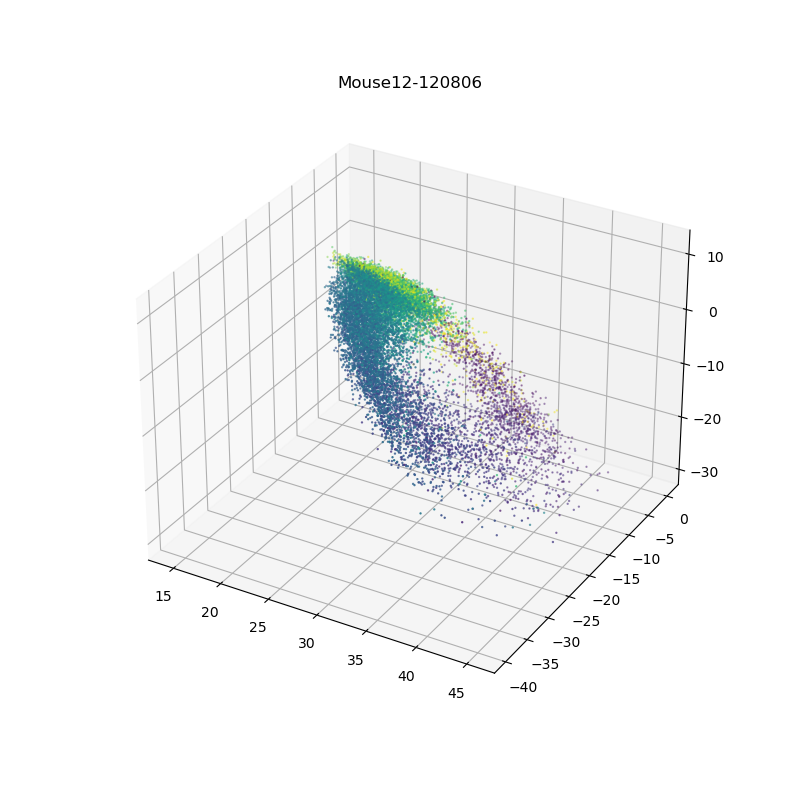
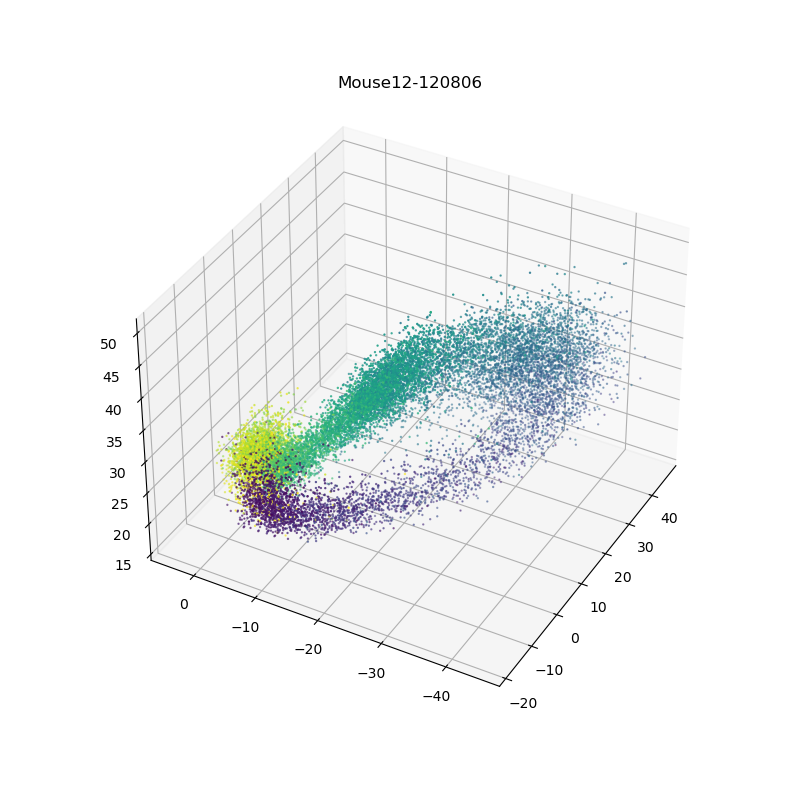
pause

Changed region(s): [[0.125, 0.1875, 0.9062, 0.875]]

diff --git a/manifold_and_decoding/run_dimensionality_reduction.py b/manifold_and_decoding/run_dimensionality_reduction.py
@@ -39,7 +39,12 @@ if command_line:
     target_dim = int(sys.argv[4])
     desired_nSamples = int(sys.argv[5])
 else:
-    session = 'Mouse25-140131'
+    sessions = ["Mouse12-120806", "Mouse12-120807", "Mouse12-120809", "Mouse12-120810", "Mouse17-130125",
+                "Mouse17-130128", "Mouse17-130129", "Mouse17-130130", "Mouse17-130131", "Mouse17-130201",
+                "Mouse17-130202", "Mouse17-130203", "Mouse17-130204", "Mouse20-130514", "Mouse20-130515",
+                "Mouse20-130516", "Mouse20-130517", "Mouse24-131216", "Mouse24-131217", "Mouse24-131218",
+                "Mouse25-140130", "Mouse25-140131", "Mouse25-140204", "Mouse28-140311", "Mouse28-140313",
+                "Mouse28-140317", "Mouse28-140318"]
     state = 'Wake'
     # state2 = 'REM'  # state2 is needed when the condition is 'joint'
     condition = 'solo'  # 'solo' or 'joint'
@@ -47,72 +52,74 @@ else:
 # target dimension 은 3 또는 2
     desired_nSamples = 15000
 
-print('Session %s, condition %s, target_dim %d, desired_nSamples %d' % (session, condition,
-                                                                        target_dim, desired_nSamples))
-area = 'ADn'  # Antero dorsal Nuclei
-dt_kernel = 0.1  # 이 값에 따라서 sample을 많이 추출할 수 있고, 적게 추출할 수 있다.(sub_sampling parameter)
-sigma = 0.1  # Kernel width => 100ms
-rate_params = {'dt': dt_kernel, 'sigma': sigma}
-method = 'iso'  # algorithm methods (available: iso, lle, tsne)
-n_neighbors = 5  # 이웃 노드의 개수
-dim_red_params = {'n_neighbors': n_neighbors, 'target_dim': target_dim}
-to_plot = True
+for session in sessions:
 
-session_rates = spike_counts(session, rate_params, count_type='rate',
-                             anat_region='ADn')
+    print('Session %s, condition %s, target_dim %d, desired_nSamples %d' % (session, condition,
+                                                                            target_dim, desired_nSamples))
+    area = 'ADn'  # Antero dorsal Nuclei
+    dt_kernel = 0.1  # 이 값에 따라서 sample을 많이 추출할 수 있고, 적게 추출할 수 있다.(sub_sampling parameter)
+    sigma = 0.1  # Kernel width => 100ms
+    rate_params = {'dt': dt_kernel, 'sigma': sigma}
+    method = 'iso'  # algorithm methods (available: iso, lle, tsne)
+    n_neighbors = 5  # 이웃 노드의 개수
+    dim_red_params = {'n_neighbors': n_neighbors, 'target_dim': target_dim}
+    to_plot = True
 
-t0 = time.time()
-if condition == 'solo':
-    counts, tmp_angles = session_rates.get_spike_matrix(state)  # count 변수 중 desired_nSample 만큼 slice하여 Manifold Learning 수행함.
-    sel_counts = counts[:desired_nSamples]
-    # 위의 과정은 dt_kernel을 통해 subsampling을 하고 num of desired samples만큼 subsampling을 하는 과정이다.
-    # _______________________________________________for checking target variable for manifold learning
-    proj = run_dim_red(sel_counts, params=dim_red_params, inp_dim=sel_counts.shape[1], method=method)
-    to_save = {'seed': sd, state: proj,
-               'meas_angles': tmp_angles[:desired_nSamples]}
-    fname = '%s_%s_kern_%dms_sigma_%dms_binsep_%s_embed_%s_%ddims_%dneighbors_%d.p' % (
-        session, area, sigma * 1000, dt_kernel *
-            1000, state, method, target_dim, n_neighbors,
-        sd)
-elif condition == 'joint':
-    counts1, _ = session_rates.get_spike_matrix(state)
-    counts2, _ = session_rates.get_spike_matrix(state2)
-    print('Counts for each ', len(counts1), len(counts2))
-    nSamples = min(len(counts1), len(counts2), desired_nSamples)
-    print('nSamples = ', nSamples)
-    sel1 = counts1[:nSamples]
-    sel2 = counts2[:nSamples]
-    concat_counts = np.concatenate((sel1, sel2), 0)
-    proj = run_dim_red(concat_counts, params=dim_red_params, method=method)
-    to_save = {'seed': sd, state: proj[:nSamples].copy(),
-               state2: proj[nSamples:].copy()}
-    fname = '%s_%s_kern_%dms_sigma_%dms_binsep_%s_%s_embed_%s_%ddims_%dneighbors_%d.p' % (
-        session, area, sigma * 1000, dt_kernel *
-            1000, state, state2, method, target_dim,
-        n_neighbors, sd)
-gff.save_pickle_file(to_save, dir_to_save + fname)
-print('Time ', time.time() - t0)
+    session_rates = spike_counts(session, rate_params, count_type='rate',
+                                 anat_region='ADn')
 
-if to_plot:
-    fig = plt.figure(figsize=(8, 8))
-    if target_dim == 2:
-        ax = fig.add_subplot(111)
-        ax.scatter(to_save[state][:, 0], to_save[state][:, 1], s=10, alpha=0.4,
-                   color=cols[state])
-        if condition == 'joint':
-            ax.scatter(to_save[state2][:, 0], to_save[state2][:, 1], s=10, alpha=0.4,
-                       color=cols[state2])
-    if target_dim == 3:
-        ax = fig.add_subplot(111, projection='3d')
-        ax.scatter(to_save[state][:, 0], to_save[state][:, 1], to_save[state][:, 2],
-                   s=5, alpha=0.4, edgecolor='face', c=cols[state])
-        if condition == 'joint':
-            ax.scatter(to_save[state2][:, 0], to_save[state2][:, 1], to_save[state2][:, 2],
-                       s=5, alpha=0.4, edgecolor='face', c=cols[state2])
-    ax.set_title('Session %s' % session)
+    t0 = time.time()
     if condition == 'solo':
-        plt.savefig(gen_params['figures_dir']+'%s_%s_%s.png' % (session, state, method))
+        counts, tmp_angles = session_rates.get_spike_matrix(state)  # count 변수 중 desired_nSample 만큼 slice하여 Manifold Learning 수행함.
+        sel_counts = counts[:desired_nSamples]
+        tmp_angles = tmp_angles[:desired_nSamples]
+        # 위의 과정은 dt_kernel을 통해 subsampling을 하고 num of desired samples만큼 subsampling을 하는 과정이다.
+        # _______________________________________________for checking target variable for manifold learning
+        proj = run_dim_red(sel_counts, params=dim_red_params, inp_dim=sel_counts.shape[1], method=method)
+        to_save = {'seed': sd, state: proj,
+                   'meas_angles': tmp_angles[:desired_nSamples]}
+        fname = '%s_%s_kern_%dms_sigma_%dms_binsep_%s_embed_%s_%ddims_%dneighbors_%d.p' % (
+            session, area, sigma * 1000, dt_kernel *
+                1000, state, method, target_dim, n_neighbors,
+            sd)
     elif condition == 'joint':
-        plt.savefig(gen_params['figures_dir']+'%s_%s,%s_%s.png' % (session, state, state2, method))
-    plt.show()
+        counts1, _ = session_rates.get_spike_matrix(state)
+        counts2, _ = session_rates.get_spike_matrix(state2)
+        print('Counts for each ', len(counts1), len(counts2))
+        nSamples = min(len(counts1), len(counts2), desired_nSamples)
+        print('nSamples = ', nSamples)
+        sel1 = counts1[:nSamples]
+        sel2 = counts2[:nSamples]
+        concat_counts = np.concatenate((sel1, sel2), 0)
+        proj = run_dim_red(concat_counts, params=dim_red_params, method=method)
+        to_save = {'seed': sd, state: proj[:nSamples].copy(),
+                   state2: proj[nSamples:].copy()}
+        fname = '%s_%s_kern_%dms_sigma_%dms_binsep_%s_%s_embed_%s_%ddims_%dneighbors_%d.p' % (
+            session, area, sigma * 1000, dt_kernel *
+                1000, state, state2, method, target_dim,
+            n_neighbors, sd)
+    gff.save_pickle_file(to_save, dir_to_save + fname)
+    print('Time ', time.time() - t0)
+
+    if to_plot:
+        fig = plt.figure(figsize=(8, 8))
+        if target_dim == 2:
+            ax = fig.add_subplot(111)
+            ax.scatter(to_save[state][:, 0], to_save[state][:, 1], s=10, alpha=0.4,
+                       color=cols[state])
+            if condition == 'joint':
+                ax.scatter(to_save[state2][:, 0], to_save[state2][:, 1], s=10, alpha=0.4,
+                           color=cols[state2])
+        if target_dim == 3:
+            ax = fig.add_subplot(111, projection='3d')
+            ax.scatter(to_save[state][:, 0], to_save[state][:, 1], to_save[state][:, 2],
+                       s=5, alpha=0.4, edgecolor='face', c=tmp_angles)
+            if condition == 'joint':
+                ax.scatter(to_save[state2][:, 0], to_save[state2][:, 1], to_save[state2][:, 2],
+                           s=5, alpha=0.4, edgecolor='face', c=cols[state2])
+        ax.set_title('Session %s' % session)
+        if condition == 'solo':
+            plt.savefig(gen_params['figures_dir']+'%s_%s_%s.png' % (session, state, method))
+        elif condition == 'joint':
+            plt.savefig(gen_params['figures_dir']+'%s_%s,%s_%s.png' % (session, state, state2, method))
 

diff --git a/experiments/run.py b/experiments/run.py
@@ -1,13 +1,12 @@
 import argparse
 from experiments.experiment import Experiment
 
-sessions = ["Mouse12-120806"]
-    # , "Mouse12-120807", "Mouse12-120809", "Mouse12-120810", "Mouse17-130125",
-    #         "Mouse17-130128", "Mouse17-130129", "Mouse17-130130", "Mouse17-130131", "Mouse17-130201",
-    #         "Mouse17-130202", "Mouse17-130203", "Mouse17-130204", "Mouse20-130514", "Mouse20-130515",
-    #         "Mouse20-130516", "Mouse20-130517", "Mouse24-131216", "Mouse24-131217", "Mouse24-131218",
-    #         "Mouse25-140130", "Mouse25-140131", "Mouse25-140204", "Mouse28-140311", "Mouse28-140313",
-    #         "Mouse28-140317", "Mouse28-140318"]
+sessions = ["Mouse12-120809", "Mouse12-120810", "Mouse17-130125",
+            "Mouse17-130128", "Mouse17-130129", "Mouse17-130130", "Mouse17-130131", "Mouse17-130201",
+            "Mouse17-130202", "Mouse17-130203", "Mouse17-130204", "Mouse20-130514", "Mouse20-130515",
+            "Mouse20-130516", "Mouse20-130517", "Mouse24-131216", "Mouse24-131217", "Mouse24-131218",
+            "Mouse25-140130", "Mouse25-140131", "Mouse25-140204", "Mouse28-140311", "Mouse28-140313",
+            "Mouse28-140317", "Mouse28-140318"]
 
 for session in sessions:
     parser = argparse.ArgumentParser()
@@ -21,12 +20,12 @@ for session in sessions:
     parser.add_argument("--enc_layers", nargs="+", type=int, help="encoder layers", default="100")
     parser.add_argument("--dec_layers", nargs="+", type=int, help="decoder layers", default="100")
     parser.add_argument("--model", default="RVAE", help="RVAE | VAE")
-    parser.add_argument("--batch_size", default=16, type=int, help="batch size")
+    parser.add_argument("--batch_size", default=32, type=int, help="batch size")
     parser.add_argument("--warmup_learning_rate", default=1e-5, type=float, help="p_mu learning rate")
     parser.add_argument("--sigma_learning_rate", default=1e-5, type=float, help="p_sigma learning rate")
     parser.add_argument("--mu_epochs", default=40, type=int, help="number of training epochs (decoder mu)")
     parser.add_argument("--sigma_epochs", default=40, type=int, help="number of training epochs (decoder sigma)")
-    parser.add_argument("--device", default="cuda:3", type=str, help="cuda | cpu")
+    parser.add_argument("--device", default="cuda:2", type=str, help="cuda | cpu")
     parser.add_argument("--seed", default=None, help="random seed")
     parser.add_argument("--log_invl", default=100, type=int,
                         help="the interval in which training stats will be reported")
@@ -39,7 +38,7 @@ for session in sessions:
     parser.add_argument("--num_components", default=128, type=int, help="number of components for the prior")
     parser.add_argument("--ckpt_path", default=None, type=str)
     parser.add_argument("--session", default=session, type=str, help="experimental session id")
-    # parser.add_argument("--ckpt_path", default="../saved_models/RVAE/spike_epoch40_"+session+"_sub.ckpt", type=str)
+    # parser.add_argument("--ckpt_path", default="../saved_models/RVAE/spike_epoch40_batch_16"+session+"_sub.ckpt", type=str)
     # parser.add_argument("--ckpt_path", default="../saved_models/VAE/spike_K1epoch40_"+session+".ckpt", type=str)
     args = parser.parse_args()
 
@@ -51,5 +50,3 @@ for session in sessions:
     else:
         experiment.eval(args.ckpt_path)
         experiment.visualize(args.ckpt_path, args.res_dir, 3)
-
-    break

diff --git a/experiments/experiment.py b/experiments/experiment.py
@@ -108,7 +108,8 @@ class Experiment:
                 print("\tEpoch: {} (sigma optimization), negative ELBO: {:.3f}".format(epoch, loss))
 
             savepath = os.path.join(self.rvae_save_dir,
-                                    self.dataset+"_epoch"+str(epoch)+"_"+self.session+"_sub"+".ckpt")
+                                    self.dataset+"_epoch"+str(epoch)+"_"+"batch_"
+                                    +str(self.batch_size)+self.session+".ckpt")
             save_model(self.model, sigma_optimizer, epoch, loss, savepath)
 
         # ================= VAE =================
@@ -196,7 +197,10 @@ class Experiment:
 
         if isinstance(self.model, RVAE):
             plot_latent_space(self.model, pretrained_path, self.in_dim,
-                              target_dim, self.train_loader, save_dir, self.device, self.session)
+                              target_dim, self.train_loader, save_dir, self.device, self.session,
+                              batch_size=self.batch_size, epoch=self.sigma_epochs)
         else:
             plot_latent_space(self.model, pretrained_path, self.in_dim,
-                              target_dim, self.train_loader, save_dir, self.device, self.session)
+                              target_dim, self.train_loader, save_dir, self.device, self.session,
+                              batch_size=self.batch_size, epoch=self.sigma_epochs)
+

diff --git a/rvae/vizualization/visualization.py b/rvae/vizualization/visualization.py
@@ -60,7 +60,7 @@ def plot_variance(model, var_dim, samples, savepath, device, log_scale=True):
     plt.close()
 
 
-def plot_latent_space(model, pretrained_path, inp_dim, target_dim, data_loader, save_dir, device, session, log_scale=False):
+def plot_latent_space(model, pretrained_path, inp_dim, target_dim, data_loader, save_dir, device, session, batch_size, epoch, log_scale=False):
     # set up the grid
     side = 1
     step = 0.1
@@ -133,7 +133,7 @@ def plot_latent_space(model, pretrained_path, inp_dim, target_dim, data_loader, 
 
     if isinstance(model, RVAE):
         model_name = 'RVAE'
-        plt.savefig(save_dir+'%s_%s.png' % (model_name, session))
+        plt.savefig(save_dir+'%s_%s_batch_%s_epoch_%s.png' % (model_name, session, batch_size, epoch))
     else:
         model_name = 'VAE'
         plt.savefig(save_dir+'%s_%s.png' % (model_name, session))

diff --git a/rvae/misc.py b/rvae/misc.py
@@ -10,7 +10,7 @@ import math
 class DistSqKL(torch.autograd.Function):
     @staticmethod
     def forward(ctx, net, p0, p1):
-        device = "cuda:3" if torch.cuda.is_available() else "cpu"
+        device = "cuda:2" if torch.cuda.is_available() else "cpu"
         b_sz = p0.shape[0]
         with torch.no_grad():
             with torch.enable_grad():
@@ -59,7 +59,7 @@ def connecting_geodesic(net, p0, p1, optim=torch.optim.SGD, max_iter=25, n_nodes
     """Computes the logmap of the geodesic with endpoints 
     p0, p1 \in M by minimizing the curve energy.
     """
-    device = "cuda:3" if torch.cuda.is_available() else "cpu"
+    device = "cuda:2" if torch.cuda.is_available() else "cpu"
     # The line below is written assuming p1 is the mean
     curve = CubicSpline(p0, p1, num_nodes=n_nodes, device=device)
     

diff --git a/rvae/utils/data_utils.py b/rvae/utils/data_utils.py
@@ -33,7 +33,7 @@ class SpikeData(torch.utils.data.Dataset):
             counts = counts.copy()
 
         # following line of code is for subsampling of neuro clusters.
-        counts = counts[:, ::2]
+        # counts = counts[:, ::2]
         self.feature_data = torch.from_numpy(counts).float()
         self.label_data = torch.from_numpy(tmp_angles).float()
         self.label_data = torch.reshape(self.label_data, (-1, 1))
